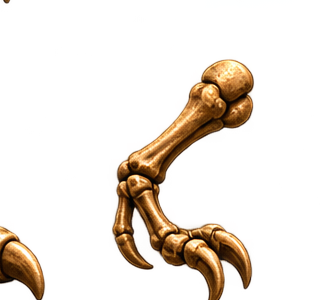
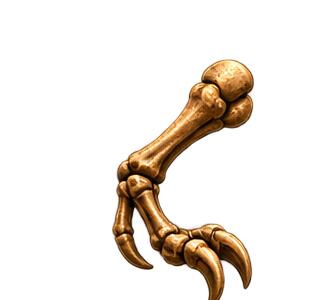
Refined the drag and drop assets to overlay properly on the dino skeletons

Changed region(s): [[0.0, 0.75, 0.1562, 1.0], [0.0, 0.0, 0.0312, 0.03]]

diff --git a/client/src/pages/DinoHunt/DinoHunt.tsx b/client/src/pages/DinoHunt/DinoHunt.tsx
@@ -10,19 +10,19 @@ import trexSkull from '../../assets/dinohunt/trex/buttons/skull.png'
 import trexFoot from '../../assets/dinohunt/trex/buttons/foot.png'
 import trexLeg from '../../assets/dinohunt/trex/buttons/leg.png'
 import trexTail from '../../assets/dinohunt/trex/buttons/tail.png'
-import trexDragSkull from '../../assets/dinohunt/trex/drag/skull.png'
-import trexDragFoot from '../../assets/dinohunt/trex/drag/foot.png'
-import trexDragLeg from '../../assets/dinohunt/trex/drag/leg.png'
-import trexDragTail from '../../assets/dinohunt/trex/drag/tail.png'
+import trexDragSkull from '../../assets/dinohunt/trex/drag-matched/skull.png'
+import trexDragFoot from '../../assets/dinohunt/trex/drag-matched/foot.png'
+import trexDragLeg from '../../assets/dinohunt/trex/drag-matched/leg.png'
+import trexDragTail from '../../assets/dinohunt/trex/drag-matched/tail.png'
 import stegosaurusBuildDrop from '../../assets/dinohunt/stegosaurus/build-drop.png'
 import stegosaurusSkull from '../../assets/dinohunt/stegosaurus/buttons/skull.png'
 import stegosaurusPlate from '../../assets/dinohunt/stegosaurus/buttons/plate.png'
 import stegosaurusLeg from '../../assets/dinohunt/stegosaurus/buttons/leg.png'
 import stegosaurusTail from '../../assets/dinohunt/stegosaurus/buttons/tail.png'
-import stegosaurusDragSkull from '../../assets/dinohunt/stegosaurus/drag/skull.png'
-import stegosaurusDragPlate from '../../assets/dinohunt/stegosaurus/drag/plate.png'
-import stegosaurusDragLeg from '../../assets/dinohunt/stegosaurus/drag/leg.png'
-import stegosaurusDragTail from '../../assets/dinohunt/stegosaurus/drag/tail.png'
+import stegosaurusDragSkull from '../../assets/dinohunt/stegosaurus/drag-matched/skull.png'
+import stegosaurusDragPlate from '../../assets/dinohunt/stegosaurus/drag-matched/plate.png'
+import stegosaurusDragLeg from '../../assets/dinohunt/stegosaurus/drag-matched/leg.png'
+import stegosaurusDragTail from '../../assets/dinohunt/stegosaurus/drag-matched/tail.png'
 import triceratopBuildDrop from '../../assets/dinohunt/triceratop/build-drop-wide.png'
 import triceratopFrill from '../../assets/dinohunt/triceratop/buttons/frill.png'
 import triceratopLeg from '../../assets/dinohunt/triceratop/buttons/leg.png'
@@ -86,17 +86,23 @@ const dinosaurConfigs: Record<DinosaurId, DinosaurConfig> = {
     wholeAlt: 'T-Rex skeleton',
     buildOptions: trexBuildOptions,
     stagingPoint: { x: 36, y: 43 },
+    stagingPartPlacements: {
+      skull: { x: 36, y: 43, widthVw: 12.6, maxRem: 11.4, rotationDeg: 9 },
+      foot: { x: 36, y: 43, widthVw: 13.2, maxRem: 7.6, rotationDeg: -12 },
+      leg: { x: 36, y: 43, widthVw: 14.6, maxRem: 9.2, rotationDeg: 0 },
+      tail: { x: 36, y: 43, widthVw: 18, maxRem: 16, rotationDeg: 0 },
+    },
     dropTargets: {
-      skull: { x: 69.5, y: 36.5 },
-      foot: { x: 62.8, y: 53.8 },
-      leg: { x: 54.0, y: 67.7 },
-      tail: { x: 30.8, y: 53.1 },
+      skull: { x: 70, y: 37.8 },
+      foot: { x: 62.5, y: 53.7 },
+      leg: { x: 53.7, y: 66.8 },
+      tail: { x: 31.5, y: 53.4 },
     },
     completedPartPlacements: {
-      skull: { x: 69.5, y: 36.5, widthVw: 11.6, maxRem: 10.4 },
-      foot: { x: 62.8, y: 53.8, widthVw: 12.6, maxRem: 7 },
-      leg: { x: 54.0, y: 67.7, widthVw: 13.4, maxRem: 8 },
-      tail: { x: 30.8, y: 53.1, widthVw: 18, maxRem: 16 },
+      skull: { x: 70, y: 37.8, widthVw: 12.6, maxRem: 11.4, rotationDeg: 9 },
+      foot: { x: 62.5, y: 53.7, widthVw: 13.2, maxRem: 7.6, rotationDeg: -12 },
+      leg: { x: 53.7, y: 66.8, widthVw: 14.6, maxRem: 9.2, rotationDeg: 0 },
+      tail: { x: 31.5, y: 53.4, widthVw: 18, maxRem: 16, rotationDeg: 0 },
     },
     initialMessage: "Great choice, Derrick! Pick a T-Rex piece and let's build it together.",
     resetMessage: "Let's try that T-Rex again. Pick a piece to start building.",
@@ -108,17 +114,23 @@ const dinosaurConfigs: Record<DinosaurId, DinosaurConfig> = {
     wholeAlt: 'Stegosaurus skeleton',
     buildOptions: stegosaurusBuildOptions,
     stagingPoint: { x: 30, y: 27 },
+    stagingPartPlacements: {
+      skull: { x: 30, y: 27, widthVw: 11.2, maxRem: 9.6, rotationDeg: 0 },
+      plate: { x: 30, y: 27, widthVw: 7.1, maxRem: 6.4, rotationDeg: 0 },
+      leg: { x: 30, y: 27, widthVw: 9.9, maxRem: 8.2, rotationDeg: 0 },
+      tail: { x: 30, y: 27, widthVw: 10.4, maxRem: 9.3, rotationDeg: 0 },
+    },
     dropTargets: {
-      skull: { x: 71.5, y: 62.5 },
-      plate: { x: 47.7, y: 36.7 },
-      leg: { x: 59.4, y: 68.5 },
-      tail: { x: 26.5, y: 60.7 },
+      skull: { x: 70.6, y: 64.6 },
+      plate: { x: 48.1, y: 37.3 },
+      leg: { x: 58.7, y: 67.4 },
+      tail: { x: 27.3, y: 60 },
     },
     completedPartPlacements: {
-      skull: { x: 71.5, y: 62.5, widthVw: 11.2, maxRem: 9.6 },
-      plate: { x: 47.7, y: 36.7, widthVw: 7.1, maxRem: 6.4 },
-      leg: { x: 59.4, y: 68.5, widthVw: 9.9, maxRem: 8.2 },
-      tail: { x: 26.5, y: 60.7, widthVw: 10.4, maxRem: 9.3 },
+      skull: { x: 70.6, y: 64.6, widthVw: 9.2, maxRem: 7.6, rotationDeg: 10 },
+      plate: { x: 48.1, y: 37.3, widthVw: 7.1, maxRem: 6.4, rotationDeg: 0 },
+      leg: { x: 58.7, y: 67.4, widthVw: 9.5, maxRem: 7.8, rotationDeg: 0 },
+      tail: { x: 27.3, y: 60, widthVw: 10.4, maxRem: 9.3, rotationDeg: 5 },
     },
     initialMessage: "Great choice, Derrick! Pick a Stegosaurus piece and let's build it together.",
     resetMessage: "Let's try that Stegosaurus again. Pick a piece to start building.",
@@ -129,23 +141,23 @@ const dinosaurConfigs: Record<DinosaurId, DinosaurConfig> = {
     wholeImage: triceratopBuildDrop,
     wholeAlt: 'Triceratops skeleton',
     buildOptions: triceratopBuildOptions,
-    stagingPoint: { x: 50, y: 72 },
+    stagingPoint: { x: 30, y: 27 },
     stagingPartPlacements: {
-      frill: { x: 50, y: 72, widthVw: 9.8, maxRem: 8.9, rotationDeg: 0 },
-      leg: { x: 50, y: 72, widthVw: 9.9, maxRem: 8.9, rotationDeg: 0 },
-      hip: { x: 50, y: 72, widthVw: 11, maxRem: 9.8, rotationDeg: 0 },
-      tail: { x: 50, y: 72, widthVw: 14.7, maxRem: 12.9, rotationDeg: 0 },
+      frill: { x: 30, y: 27, widthVw: 10.6, maxRem: 9.7, rotationDeg: 0 },
+      leg: { x: 30, y: 27, widthVw: 10.1, maxRem: 9.1, rotationDeg: 0 },
+      hip: { x: 30, y: 27, widthVw: 11.4, maxRem: 10.2, rotationDeg: 22 },
+      tail: { x: 30, y: 27, widthVw: 15.5, maxRem: 13.7, rotationDeg: 8 },
     },
     dropTargets: {
-      frill: { x: 34.6, y: 41.1 },
-      leg: { x: 40.5, y: 69 },
-      hip: { x: 53.5, y: 45.6 },
+      frill: { x: 34.7, y: 41.3 },
+      leg: { x: 40.1, y: 66.2 },
+      hip: { x: 53.8, y: 45.9 },
       tail: { x: 67.8, y: 55.5 },
     },
     completedPartPlacements: {
-      frill: { x: 34.6, y: 41.1, widthVw: 9.8, maxRem: 8.9, rotationDeg: 0 },
-      leg: { x: 40.5, y: 69, widthVw: 11.1, maxRem: 10.1, rotationDeg: 0 },
-      hip: { x: 53.5, y: 45.6, widthVw: 11.4, maxRem: 10.2, rotationDeg: 18 },
+      frill: { x: 34.7, y: 41.3, widthVw: 10.6, maxRem: 9.7, rotationDeg: 0 },
+      leg: { x: 40.1, y: 66.2, widthVw: 10.1, maxRem: 9.1, rotationDeg: 0 },
+      hip: { x: 53.8, y: 45.9, widthVw: 11.4, maxRem: 10.2, rotationDeg: 22 },
       tail: { x: 67.8, y: 55.5, widthVw: 15.5, maxRem: 13.7, rotationDeg: 8 },
     },
     initialMessage: "Great choice, Derrick! Pick a Triceratops piece and let's build it together.",
@@ -310,9 +322,9 @@ export default function DinoHunt() {
   }
 
   const getDraggingPartStyle = (part: DraggingPart) => {
-    if (selectedDinosaur === 'stegosaurus' || selectedDinosaur === 'triceratop') {
-      const placement = getCompletedPlacementForPart(part.id)
+    const placement = getCompletedPlacementForPart(part.id)
 
+    if (placement) {
       return {
         ...getScenePositionStyle(part.x, part.y),
         width: `min(${part.widthVw ?? placement.widthVw}%, ${part.maxRem ?? placement.maxRem}rem)`,

diff --git a/docs/dino-drag-drop-placement-workflow.md b/docs/dino-drag-drop-placement-workflow.md
@@ -1,0 +1,16 @@
+# Dino Drag and Drop Placement Workflow
+
+Use the Triceratops page as the quality bar for each dinosaur build scene.
+
+1. Keep representative card art separate from drag/drop overlay art. Card art only needs to communicate the piece clearly inside the build card.
+2. Choose the correct rendered part source before generating anything new. If the repo already has a crisp rendered part with the right anatomy, use that as the visual source instead of generating a new generic part.
+3. Use the gray target silhouettes in the assembled skeleton image to understand the target pose, canvas, and placement. When a rendered source piece exists, clean its colored edge fringe and fit it into the matched overlay canvas. When no rendered source exists, generate a polished bronze part using the gray guide as the silhouette reference.
+4. Save matched overlay pieces in a separate drag asset set, then wire `BuildPart.dragImage` to those files. Do not replace the representative button images with matched overlay pieces.
+5. Use the placement debugger with `?placementDebug=<dinosaur>` to tune each piece:
+   - `Placed` mode sets final `completedPartPlacements`.
+   - `Popup` mode sets `stagingPartPlacements`.
+   - Tune `x`, `y`, `widthVw`, `maxRem`, and `rotationDeg`.
+6. Set `dropTargets` to the same `x` and `y` as the final placement center for each piece.
+7. Set popup pieces to their final `widthVw`, `maxRem`, and `rotationDeg` so dragging only changes position. The piece should not resize or rotate when it lands.
+8. Put popup pieces in a clear open staging area where they are fully visible and do not cover the dinosaur head, cards, avatar, or action buttons.
+9. Validate in the browser, copy final debugger output back into config, then run the build check.
